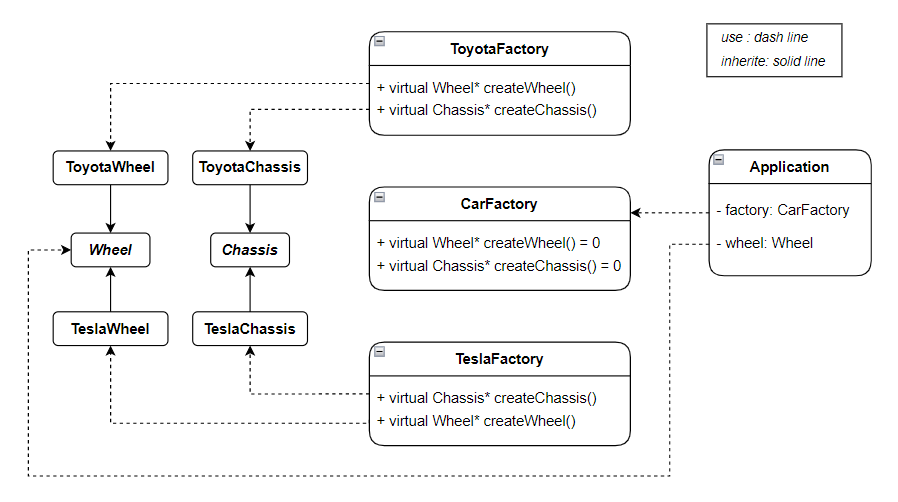
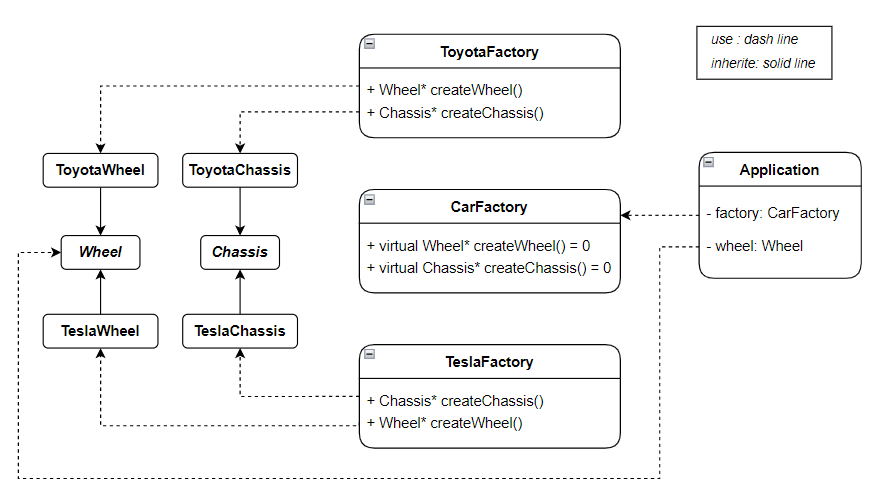
Update: /Creational/Abstract-Factory/ - Image of 2 examples in assets/

diff --git a/Creational/Abstract-Factory/Example01/module/header/abstract-factory.h b/Creational/Abstract-Factory/Example01/module/header/abstract-factory.h
@@ -20,9 +20,10 @@ class Furniture {
 
 class CarAbstractFactory {
     public:
-        virtual Wheel createWheel() = 0;
-        virtual Chassis createChassis() = 0;
-        virtual Furniture createFurniture() = 0;
+        
+        virtual Wheel* createWheel() = 0;
+        virtual Chassis* createChassis() = 0;
+        virtual Furniture* createFurniture() = 0;
 };
 
 
